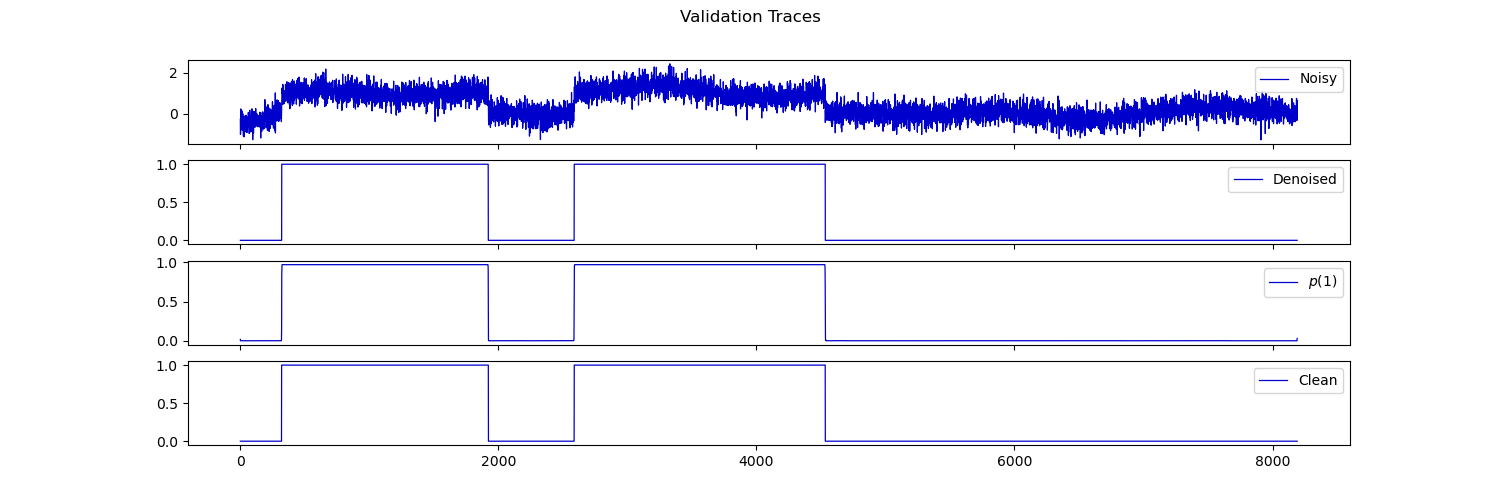
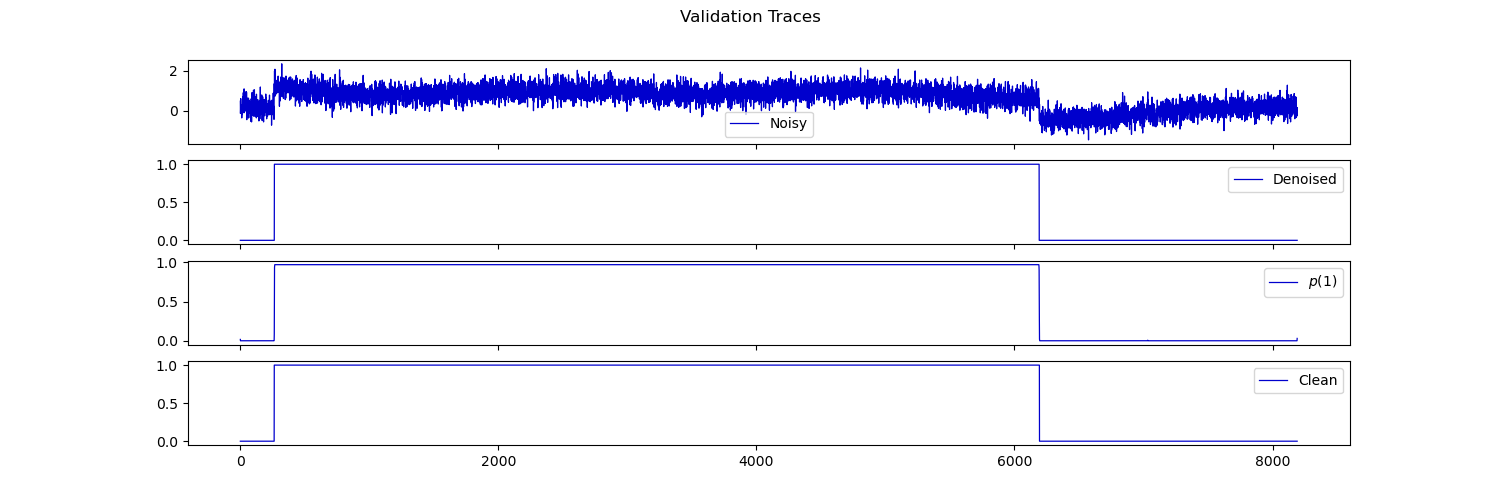
added metrics to denoiser_test

diff --git a/denoiser_test.py b/denoiser_test.py
@@ -15,12 +15,14 @@ device = torch.device('cuda' if torch.cuda.is_available() else 'cpu')
 
 # Directory setup
 current_dir = os.getcwd()  # Get the current working directory
-#file_name = 'sim_elzerman_traces_train'  # Base name for the training HDF5 file
-val_name = 'sim_elzerman_traces_val'  # Base name for the validation HDF5 file
+file_name = 'sim_elzerman_traces_test'  # Base name for the training HDF5 file
+mask_name = 'sim_elzerman_test_masks'  # Base name for the validation HDF5 file
 
 # Construct full paths for the HDF5 files
 #hdf5_file_path = os.path.join(current_dir, '{}.hdf5'.format(file_name))  # Training file path
-hdf5_file_path_val = os.path.join(current_dir, '{}.hdf5'.format(val_name))  # Validation file path
+hdf5_file_path = os.path.join(current_dir, '{}.hdf5'.format(file_name))  # Validation file path
+hdf5_file_path_masks = os.path.join(current_dir, '{}.hdf5'.format(mask_name))  # Validation file path
+
 
 # Read data from the training HDF5 file
 """ with h5py.File(hdf5_file_path, 'r') as file:  # Open the HDF5 file in read mode
@@ -29,14 +31,35 @@ hdf5_file_path_val = os.path.join(current_dir, '{}.hdf5'.format(val_name))  # Va
     print(data.shape)  # Print the data shape for verification
  """
 # Read data from the validation HDF5 file
-with h5py.File(hdf5_file_path_val, 'r') as file:  # Open the HDF5 file in read mode
+with h5py.File(hdf5_file_path, 'r') as file:  # Open the HDF5 file in read mode
     all_keys = file.keys()  # Get all keys (datasets) in the HDF5 file
-    val_data = np.array([file[key] for key in all_keys])  # Read data from each dataset and store in a numpy array
-    print(val_data.shape)  # Print the validation data shape for verification
+    test_data = np.array([file[key] for key in all_keys])  # Read data from each dataset and store in a numpy array
+    print(test_data.shape)  # Print the validation data shape for verification
+
+with h5py.File(hdf5_file_path_masks, 'r') as file:  # Open the HDF5 file in read mode
+    all_keys = file.keys()  # Get all keys (datasets) in the HDF5 file
+    mask_data = np.array([file[key] for key in all_keys])  # Read data from each dataset and store in a numpy array
+    print(mask_data.shape)  # Print the validation data shape for verification
+
+
+t_L = 0.5e-3
+t_W = 0.0
+t_R = 1.0e-3
+t_U = 1.5e-3
+times = np.array([t_L, t_W, t_R, t_U])
+trace_duration = np.sum(times)
+times = np.array([t_L, t_L+t_W, t_L+t_W+t_R, t_L+t_W+t_R+t_U])
+n_samples = 8192
+times_indices = times * n_samples/trace_duration
+times_indices = times_indices.astype(np.int64)
+
+start_read, end_read = times_indices[1], times_indices[2]
+
+
 
 # Define parameters for the noise and simulation
 noise_std = 0.3  # Standard deviation of Gaussian noise
-T = 0.006  # Total simulation time in seconds
+T = trace_duration  # Total simulation time in seconds
 N = 2
 n_samples = 8192
 dt = T/(8192)
@@ -53,20 +76,21 @@ interference_freqs = [50, 200, 600, 1000]  # Frequencies of the interference sig
 noise_transform = Noise(n_samples, T, noise_std, interference_amps, interference_freqs)
 
 # Create an instance of the MinMaxScalerTransform class
-train_scaler = MinMaxScalerTransform()
-val_scaler = MinMaxScalerTransform()
+scaler = MinMaxScalerTransform()
 # Fit the scaler using data from the training HDF5 file
 #train_scaler.fit_from_hdf5(hdf5_file_path)
-val_scaler.fit_from_hdf5(hdf5_file_path_val)
+scaler.fit_from_hdf5(hdf5_file_path)
 # Create instances of the SimDataset class for training and validation datasets
 print('Creating datasets...')
 ###dataset = SimDataset(hdf5_file_path, scale_transform=train_scaler, noise_transform=noise_transform)  # Training dataset
-val_dataset = SimDataset(hdf5_file_path_val, scale_transform=val_scaler, noise_transform=noise_transform)  # Validation dataset
+val_dataset = SimDataset(hdf5_file_path, scale_transform=scaler, noise_transform=noise_transform)  # Validation dataset
+mask_dataset = SimDataset(hdf5_file_path_masks, scale_transform=None, noise_transform=None)  # Validation dataset
 
 # Create DataLoader
 batch_size = 32  # Batch size for loading data
 #train_loader = DataLoader(dataset, batch_size=batch_size, shuffle=True)  # DataLoader for the dataset
-val_loader = DataLoader(val_dataset, batch_size=batch_size, shuffle=True)  # DataLoader for the validation dataset
+test_loader = DataLoader(val_dataset, batch_size=batch_size, shuffle=False)  # DataLoader for the validation dataset
+mask_loader = DataLoader(mask_dataset, batch_size=batch_size, shuffle=False)  # DataLoader for the validation dataset
 
 
 
@@ -85,7 +109,8 @@ model.eval()
 
 
 # Visualize validation dataset predictions
-x, y = next(iter(val_loader))  # Get a batch of validation data
+x, y = next(iter(test_loader))  # Get a batch of validation data
+mask, _ = next(iter(mask_loader))
 x = x.to(device)
 y = y.to(device)
 model.eval()
@@ -115,6 +140,7 @@ for i in range(10):
 
     axs[1].plot(predition_class[i], label='Denoised', color='mediumblue', linewidth=0.9)
     axs[1].tick_params(labelbottom=False)
+    axs[1].plot(predition_class[i][mask[i]==1], color='r')
     axs[1].legend()
     #axs[1].set_xlim(0, 1000)
 
@@ -128,6 +154,54 @@ for i in range(10):
     #axs[2].set_xlim(0, 1000)
 
     plt.savefig(os.path.join(model_dir, f'validation_trace_{i}.png'))  # Save each figure
-plt.show()
+plt.show(block=False)
+
+nfn = 0
+nfp = 0
+ntn = 0 
+ntp = 0
+
+def invert(arr):
+    where_0 = np.where(arr == 0)
+    where_1 = np.where(arr == 1)
+
+    arr[where_0] = 1
+    arr[where_1] = 0
+
+    return arr
+
+with torch.no_grad():  # Disable gradient calculation for validation
+    for batch_x, batch_y in test_loader:  # Loop over each batch of validation data
+        decoded_test_data = model(batch_x)
+        batch_y  = batch_y.numpy()
+        batch_y = batch_y.squeeze(1)
+        m = torch.nn.Softmax(dim=1)
+        decoded_test_data = m(decoded_test_data)
+        decoded_test_data = decoded_test_data.cpu().numpy()  # Get model output for visualization
+        predition_class = decoded_test_data.argmax(axis=1)
+
+        for i, pred_trace in enumerate(predition_class):                   
+            
+            selection = invert(pred_trace[start_read:end_read])
+            current_mask = invert(batch_y[i, :][start_read:end_read])
 
 
+            if selection.any() and current_mask.any():
+                ntp += 1
+            elif selection.any() and not current_mask.any():
+                nfp += 1
+            elif not (selection.any()) and (current_mask.any()):
+                nfn += 1
+            elif not (selection.any()) and not (current_mask.any()):
+                ntn += 1  
+
+cm = np.array([[ntp, nfp], [nfn, ntn]])
+accuracy = (ntp + ntn) / (ntp + ntn + nfn + nfp)
+precision = ntp / (ntp + nfp)
+recall = ntp / (ntp + nfn)
+f1 = 2 * precision*recall/(precision+recall)
+print(cm)
+print(f'Accuracy: {accuracy}')
+print(f'Precision: {precision}')
+print(f'Recall: {recall}')
+print(f'F1 Score: {f1}')

diff --git a/simulate_elzerman_data.py b/simulate_elzerman_data.py
@@ -451,10 +451,10 @@ def main():
             print('...took {}s\n'.format((end_time - start_time)))
 
 
-    save_elzerman_traces(hdf5_file_path_train, 1000)
+    #save_elzerman_traces(hdf5_file_path_train, 1000)
     #save_dummy_traces(hdf5_file_path_train, 1000)
     #save_elzerman_traces(hdf5_file_path_val, 100)
-    #save_elzerman_traces_and_masks(hdf5_file_path_test, hdf5_file_path_mask, 100)
+    save_elzerman_traces_and_masks(hdf5_file_path_test, hdf5_file_path_mask, 1000)
    
 
 if __name__ == '__main__':

diff --git a/dataset.py b/dataset.py
@@ -55,7 +55,7 @@ class SimDataset(Dataset):
             noisy_trace = self.noise_transform(clean_trace)
         else:
             noisy_trace = clean_trace.copy()
-            print('No noise transform! Data will be labeled to itself!')
+            #print('No noise transform! Data will be labeled to itself!')
 
         if self.scale_transform:  # Apply the scale transform if it exists
             clean_trace = self.scale_transform(clean_trace)
